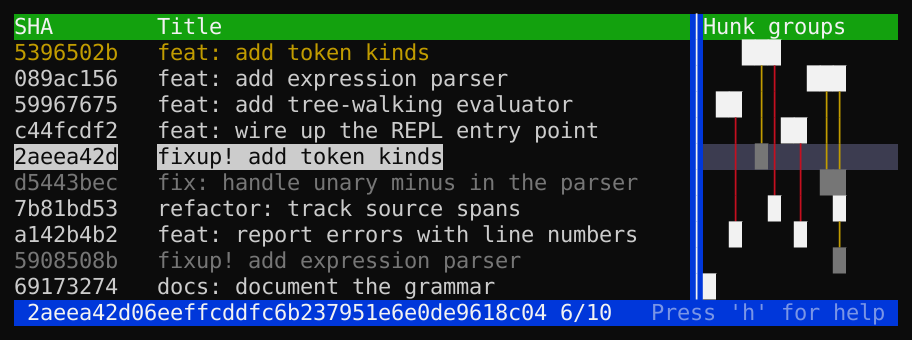
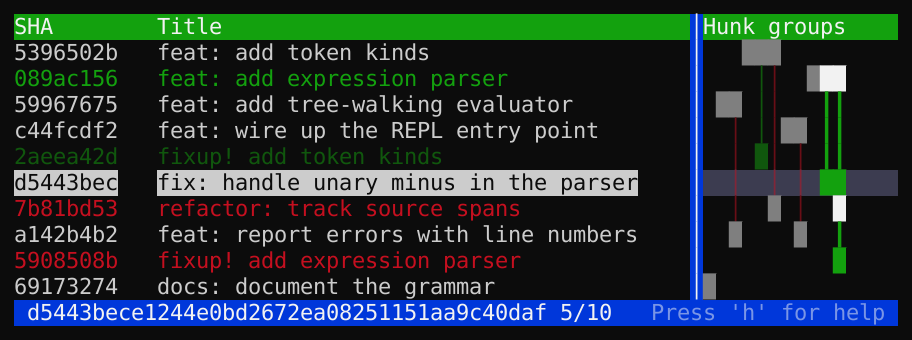
feat: default to the highlight hunk group theme
Make `highlight` the default fragmap theme (and the first ValueEnum
variant) instead of `plain`. The highlight theme dims the columns the
selected commit does not touch and colors related commits green
(squashable) / red (conflicting), focusing attention on the selected
commit's relationships. Users can opt back into the flat coloring with
`--theme plain` / `GT_THEME=plain`.

The TUI reads the default via Theme::default() (was a hardcoded
Theme::Plain fallback). The screenshot example renders with the default
theme and selects a commit whose hunk group shows both a green squash
partner and a red conflict; doc/tui_example.png is regenerated.

tui_fragmap and the two squash-coloring tests document the plain theme's
gray/white/yellow/red rendering, so they now pin Theme::Plain explicitly;
the default Highlight rendering stays covered by tui_theme.

diff --git a/tests/tui_fragmap.rs b/tests/tui_fragmap.rs
@@ -13,6 +13,11 @@
 // limitations under the License.
 
 // TUI snapshot tests for the fragmap view.
+//
+// These tests document the Plain theme's gray/white/yellow/red rendering and
+// pin `Theme::Plain` so they stay stable regardless of the default theme.
+// Theme-specific rendering (including the default Highlight theme) is covered
+// by tui_theme.rs.
 
 #[allow(dead_code)]
 mod common;
@@ -23,6 +28,7 @@ use git_tailor::{
     app::AppState,
     fragmap::{SpanCluster, TouchKind},
     views,
+    views::theme::Theme,
 };
 
 /// Two commits touching the same cluster with no commits in between → squashable.
@@ -32,6 +38,7 @@ fn test_fragmap_squashable_pair() {
     let mut harness = TuiTestHarness::short();
 
     let mut app = AppState::new();
+    app.theme = Theme::Plain;
     app.commits = vec![
         common::create_test_commit("aaaa11112222", "Add config file"),
         common::create_test_commit("bbbb33334444", "Unrelated change"),
@@ -65,6 +72,7 @@ fn test_fragmap_conflicting_pair() {
     let mut harness = TuiTestHarness::short();
 
     let mut app = AppState::new();
+    app.theme = Theme::Plain;
     app.commits = vec![
         common::create_test_commit("aaaa11112222", "Add parser"),
         common::create_test_commit("bbbb33334444", "Refactor parser"),
@@ -100,6 +108,7 @@ fn test_fragmap_mixed_columns() {
     let mut harness = TuiTestHarness::short();
 
     let mut app = AppState::new();
+    app.theme = Theme::Plain;
     app.commits = vec![
         common::create_test_commit("aaaa11112222", "Add feature A"),
         common::create_test_commit("bbbb33334444", "Touch both files"),
@@ -151,6 +160,7 @@ fn test_fragmap_reversed() {
     let mut harness = TuiTestHarness::short();
 
     let mut app = AppState::new();
+    app.theme = Theme::Plain;
     app.commits = vec![
         common::create_test_commit("aaaa11112222", "Add config file"),
         common::create_test_commit("bbbb33334444", "Unrelated change"),
@@ -185,6 +195,7 @@ fn test_fragmap_full_duplicate_columns_visible() {
     let mut harness = TuiTestHarness::short();
 
     let mut app = AppState::new();
+    app.theme = Theme::Plain;
     app.commits = vec![
         common::create_test_commit("aaaa11112222", "Add handler"),
         common::create_test_commit("bbbb33334444", "Unrelated change"),
@@ -216,6 +227,7 @@ fn test_fragmap_adjacent_squashable() {
     let mut harness = TuiTestHarness::short();
 
     let mut app = AppState::new();
+    app.theme = Theme::Plain;
     app.commits = vec![
         common::create_test_commit("aaaa11112222", "Add handler"),
         common::create_test_commit("bbbb33334444", "Fix handler"),
@@ -271,6 +283,7 @@ fn test_fragmap_horizontal_scroll() {
         .collect();
 
     let mut app = AppState::new();
+    app.theme = Theme::Plain;
     app.commits = commits;
     app.selection_index = 0;
     app.fragmap_scroll_offset = 4;
@@ -289,6 +302,7 @@ fn test_fragmap_not_fully_squashable() {
     let mut harness = TuiTestHarness::short();
 
     let mut app = AppState::new();
+    app.theme = Theme::Plain;
     app.commits = vec![
         common::create_test_commit("aaaa11112222", "Touch config"),
         common::create_test_commit("bbbb33334444", "Unrelated change"),

diff --git a/examples/gen_screenshot.rs b/examples/gen_screenshot.rs
@@ -55,12 +55,15 @@ fn main() -> Result<()> {
 
     let mut app = load_app(tmp.path()).context("loading commits + fragmap")?;
 
-    // Select a fixup commit so its squash target lights up (yellow squash
-    // partner / connector), demonstrating "find where to squash this".
+    // Select a commit whose hunk group contains both a squashable partner
+    // (green: "feat: add expression parser") and a later conflicting edit
+    // (red: "refactor: track source spans"). With the default Highlight theme
+    // this lights up that one column and dims the rest — showcasing how the
+    // theme focuses attention on the selected commit's relationships.
     if let Some(idx) = app
         .commits
         .iter()
-        .position(|c| c.summary.starts_with("fixup! add token kinds"))
+        .position(|c| c.summary.starts_with("fix: handle unary minus"))
     {
         app.selection_index = idx;
     }
@@ -99,7 +102,8 @@ fn load_app(repo_path: &Path) -> Result<AppState> {
         .context("fragmap computation returned None")?;
 
     let mut app = AppState::with_commits(commits);
-    app.theme = Theme::Plain;
+    // Render with the default theme so the screenshot matches what users see.
+    app.theme = Theme::default();
     app.fragmap = Some(fragmap);
     // Trim the title column down to the widest summary so the hunk-group matrix
     // sits right next to the titles, leaving just enough room for its header.

diff --git a/tests/tui_squash_select.rs b/tests/tui_squash_select.rs
@@ -23,6 +23,7 @@ use git_tailor::{
     app::{AppAction, AppMode, AppState, KeyCommand, SquashMode},
     fragmap::TouchKind,
     views,
+    views::theme::Theme,
 };
 
 fn make_app_in_squash_select(source_index: usize, selection_index: usize) -> AppState {
@@ -246,6 +247,8 @@ fn test_squash_candidate_coloring_with_fragmap() {
         source_index: 2,
         squash_mode: SquashMode::Squash,
     };
+    // Documented colours below are the Plain theme's; pin it for stability.
+    app.theme = Theme::Plain;
 
     // Cluster 0: commits 0 and 2 both touch it, commit 1 does not → squashable
     app.fragmap = Some(create_fragmap(
@@ -283,6 +286,8 @@ fn test_squash_candidate_coloring_conflicting() {
         source_index: 2,
         squash_mode: SquashMode::Squash,
     };
+    // Documented colours below are the Plain theme's; pin it for stability.
+    app.theme = Theme::Plain;
 
     // All three commits touch cluster 0 → conflicting between 0 and 2
     app.fragmap = Some(create_fragmap(

diff --git a/src/views/theme.rs b/src/views/theme.rs
@@ -222,11 +222,11 @@ impl FragmapTheme for ClassicTheme {
 /// Selects which `FragmapTheme` implementation is active.
 #[derive(Debug, Clone, Copy, PartialEq, Eq, ValueEnum, Default)]
 pub enum Theme {
-    /// No focus highlighting (default).
+    /// Highlight clusters related to the selected commit (default).
     #[default]
-    Plain,
-    /// Highlight clusters related to the selected commit.
     Highlight,
+    /// No focus highlighting.
+    Plain,
     /// Background-color style, matching the `--static` output.
     Classic,
 }
@@ -234,8 +234,8 @@ pub enum Theme {
 impl Theme {
     pub fn as_theme(&self) -> &dyn FragmapTheme {
         match self {
-            Theme::Plain => &PlainTheme,
             Theme::Highlight => &HighlightTheme,
+            Theme::Plain => &PlainTheme,
             Theme::Classic => &ClassicTheme,
         }
     }

diff --git a/src/main.rs b/src/main.rs
@@ -27,7 +27,6 @@ use git_tailor::{
     CommitDiff, CommitInfo, Oid,
     app::{self, AppAction, AppMode, AppState, SplitStrategy, SquashMode},
     editor, mergetool, views,
-    views::theme::Theme,
 };
 
 use crate::cli::Cli;
@@ -94,7 +93,7 @@ fn main() -> Result<()> {
 
     let mut app = AppState::new();
     app.reverse = cli.reverse;
-    app.theme = cli.theme.unwrap_or(Theme::Plain);
+    app.theme = cli.theme.unwrap_or_default();
     app.reference_oid = reference_oid.clone();
     app.include_reference_oid = include_reference_oid;
     app.full_fragmap = cli.full;

diff --git a/README.md b/README.md
@@ -60,7 +60,7 @@ gt                   # auto-detect default branch (origin/HEAD or main)
 | `--all`              | Browse the complete repository history from HEAD down to the root commit           |
 | `--static` / `-s`    | Print the hunk group matrix to stdout and exit (no TUI)                            |
 | `--no-color`         | Disable colors in `--static` output                                                |
-| `--theme <THEME>`    | Hunk group matrix rendering theme: `plain` (default), `highlight`, or `classic`    |
+| `--theme <THEME>`    | Hunk group matrix rendering theme: `highlight` (default), `plain`, or `classic`    |
 
 Some flags can be persisted via environment variables so you don't have to pass
 them every time:
@@ -79,32 +79,42 @@ them every time:
 Each **column** in the hunk group matrix represents a group of related hunks (a
 contiguous set of lines in a file that is touched by one or more commits). A
 square `█` in a column means that commit modifies lines in that hunk group. A
-vertical line `│` between two squares is a **connector** — it means the two
-commits touch the same hunk group but are separated by other commits.
+vertical line (`│` or `┃`) between two squares is a **connector** — it means the
+two commits touch the same hunk group but are separated by other commits.
 
-### Color legend — hunk group matrix (plain theme)
+The default **highlight** theme focuses on the selected commit: the hunk groups
+it touches are drawn at full brightness (with heavy `┃` connectors) while every
+other column is dimmed. Pass `--theme plain` for a flat look with no dimming, or
+`--theme classic` for the background-color style matching `--static` output.
 
-| Color            | Meaning                                                                                                                |
+### Color legend — hunk group matrix (highlight theme)
+
+| Color / style    | Meaning                                                                                                                |
 |------------------|------------------------------------------------------------------------------------------------------------------------|
-| White square     | This commit touches a hunk group that also appears in another commit — potential conflict                              |
-| Dark gray square | This commit's changes in this hunk group can be cleanly squashed with the related, earlier commit                      |
-| Yellow connector | From dark gray square, the two commits can be cleanly squashed                                                         |
+| Green square     | This commit can be cleanly squashed with the related, earlier commit in this hunk group                                |
+| White square     | The earliest commit in a hunk group, or one that touches it but is not a clean squash                                  |
+| Light red square | The selected commit's own square where squashing into the related commit would conflict                                |
+| Green connector  | The two commits linked by the connector can be cleanly squashed                                                        |
 | Red connector    | The two commits touching this hunk group have **conflicting** changes, reordering or squashing risks a merge conflict  |
+| Dimmed column    | A hunk group the selected commit does not touch, shown for context                                                     |
 
 Note that even though the colors indicate cleanly squashable, git may consider
 the squash causing conflict since git-tailor considers no extra lines of context
 while git does.
 
-### Color legend — commit list (plain theme)
+### Color legend — commit list (highlight theme)
 
 When you select a commit, the other commits are colored relative to it:
 
 | Color     | Meaning                                                                                                                           |
 |-----------|-----------------------------------------------------------------------------------------------------------------------------------|
-| Yellow    | Squashable partner — the currently selected commit can be cleanly squashed into the yellow or vice versa depending on order       |
+| Green     | Squashable partner — the currently selected commit can be cleanly squashed into the green commit or vice versa depending on order |
 | Red       | Conflicting — the currently selected commit touches the same lines as the red commit; squashing or reordering may cause conflicts |
-| Dark gray | Fully squashable — every hunk group the grey commit touches is squashable; a good candidate to merge into another commit          |
+| Dim green | Fully squashable — every hunk group this commit touches is squashable; a good candidate to merge into another commit             |
 | Normal    | No shared hunk groups with the currently selected commit                                                                          |
+
+With `--theme plain` these same relationships are shown in yellow (squashable),
+red (conflicting), and gray (fully squashable) instead.
 
 
 

diff --git a/CHANGELOG.md b/CHANGELOG.md
@@ -54,6 +54,14 @@ The format is based on
   while pressing it in the commit detail view shows only the relevant subset
   (diff scroll, search, navigation back).
 
+### Changed
+
+- The hunk group matrix now defaults to the `highlight` theme, which dims the
+  columns the selected commit does not touch and draws related commits in green
+  (squashable) or red (conflicting) to focus attention on its relationships. The
+  previous flat coloring remains available with `--theme plain` (or
+  `GT_THEME=plain`).
+
 ### Removed
 
 - `--squashable-scope` CLI flag and `GT_SQUASHABLE_SCOPE` environment variable.
